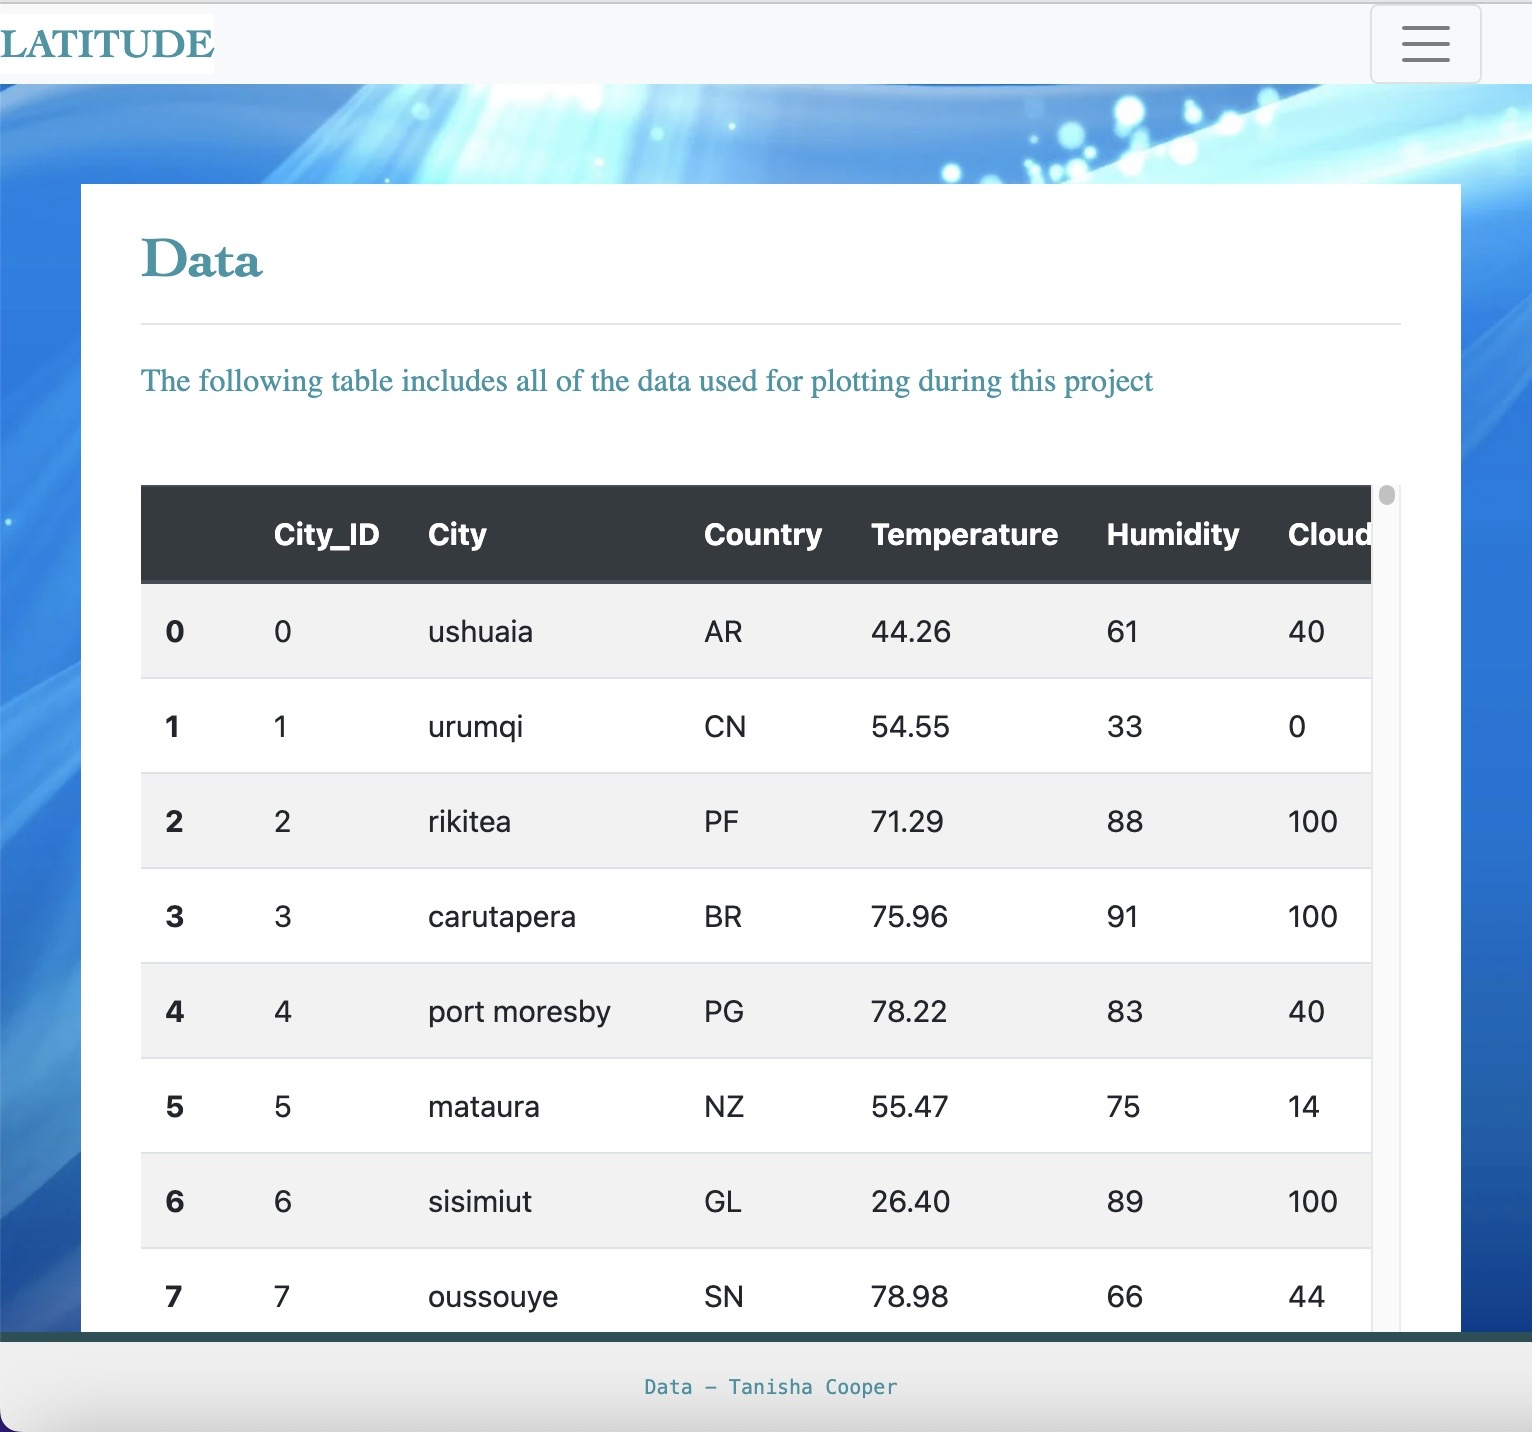
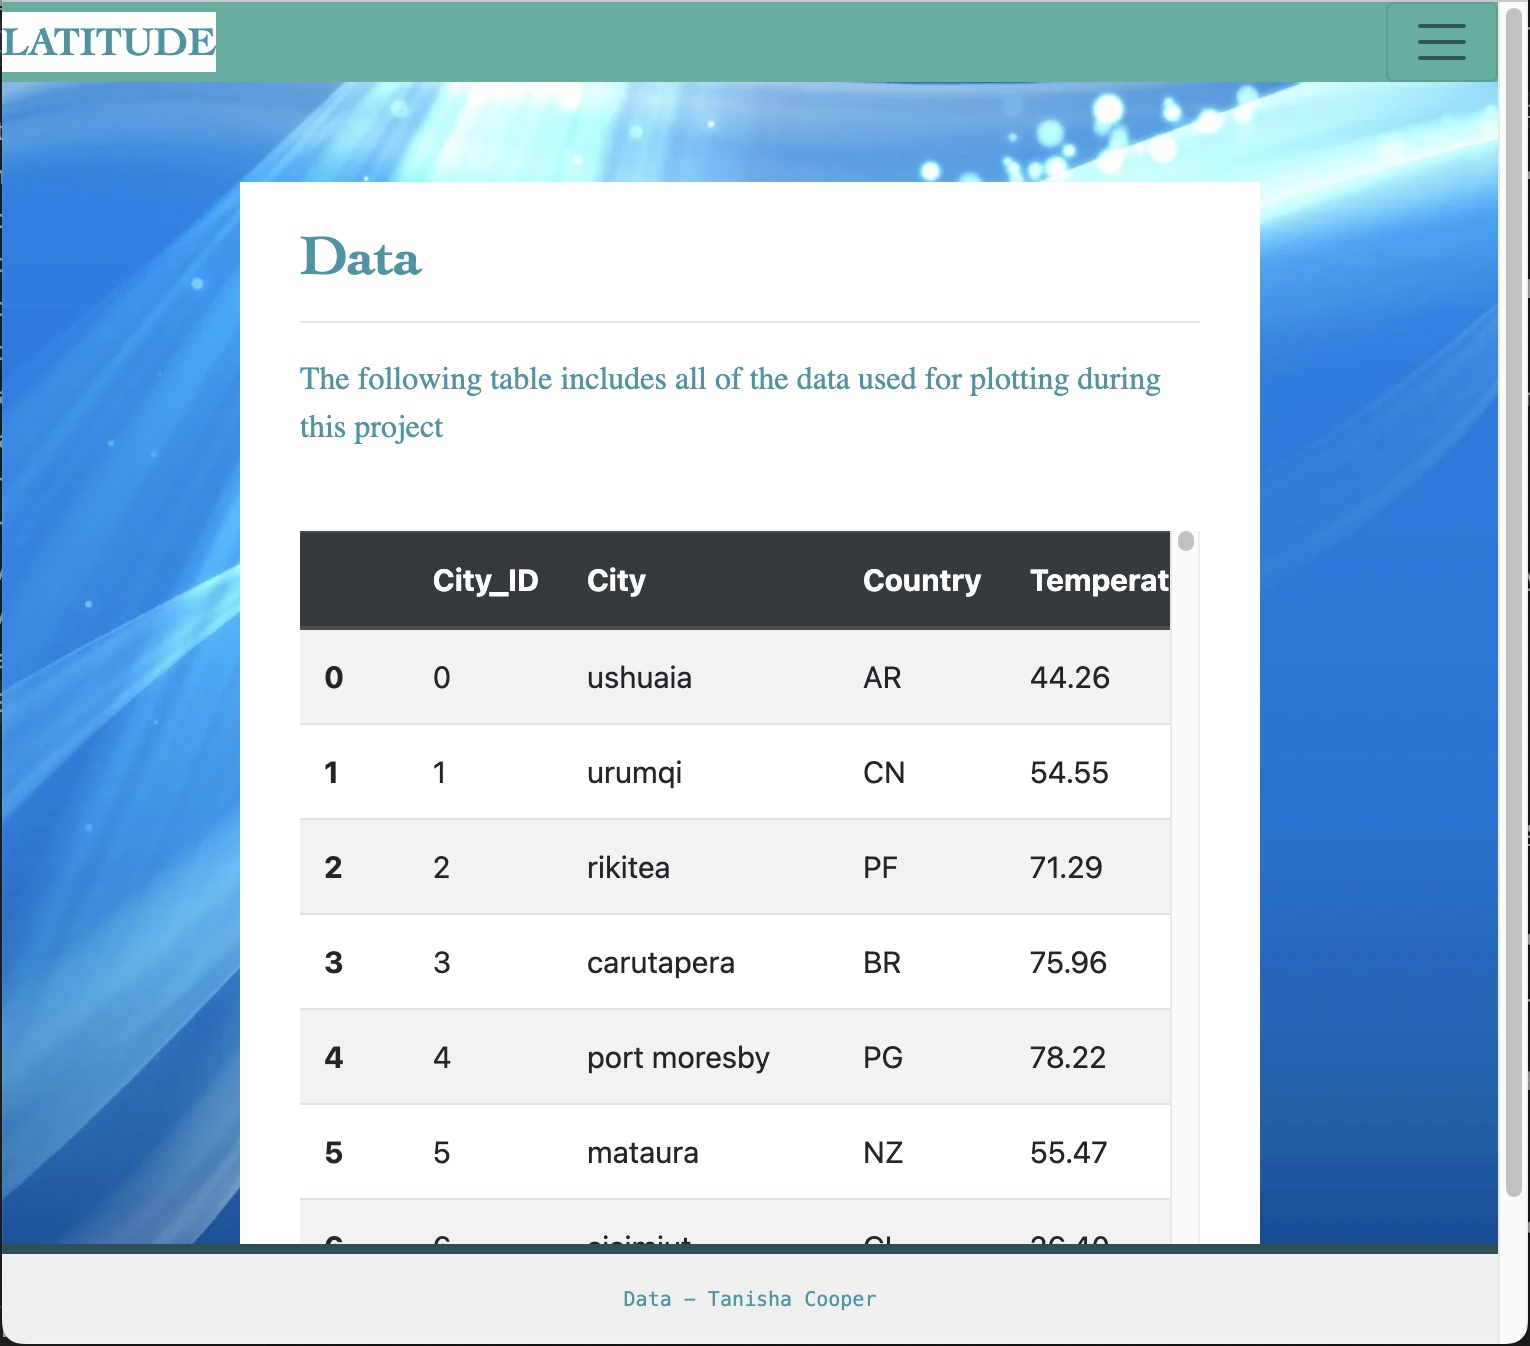
updated images

diff --git a/main.css b/main.css
@@ -105,26 +105,15 @@ body {
   padding-top: 15px;
   }
   
-  @media(max-width: 992px) {
-    .navbar-expand-lg {
-    background-color: #000000;
+  @media(max-width:767px){
+    .navbar.bg-light{
+        background-color: rgb(81, 175, 160)!important;    
     }
-    .navbar {
-      max-height: none;
-      padding: inherit;
+
+    .navbar-collapse{
+        background-color: #f8f9fa;
     }
-    .navbar div {
-      margin: inherit;
-      background-color: rgb(255,255,255);
-    }
-    .navbar-brand {
-      padding: 10px;
-    }
-    button{
-      margin-right: 30px;
-    }
-    button:focus {
-      outline: 1px dotted;
-      outline: auto 5px;
+    .navbar{
+        padding:inherit;
     }
   }
